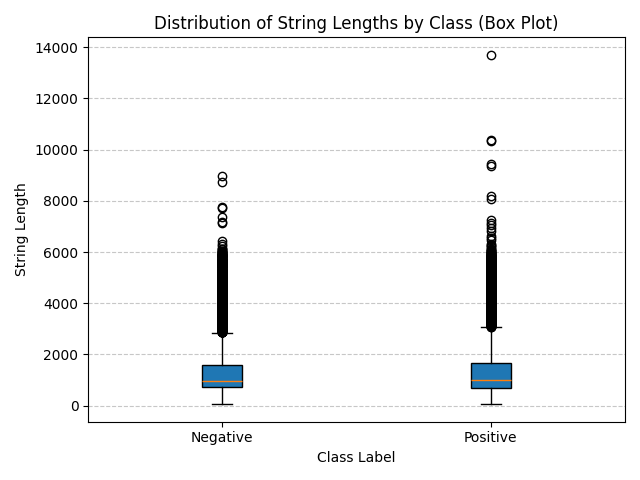
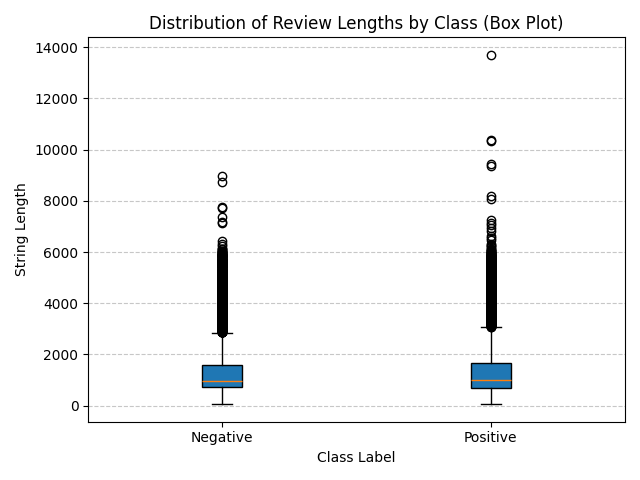
:sparkles: Add histogram plot for data vis

Changed region(s): [[0.2188, 0.0312, 0.875, 0.0625]]

diff --git a/jamoy/data-vis.py b/jamoy/data-vis.py
@@ -3,27 +3,12 @@
 # Used to import and visualize the dataset.
 from datasets import load_dataset
 import matplotlib.pyplot as plt
+import numpy as np
 import os
+import colorama
 
-def plot_box_plot(plot_data, display_labels, filename='box_plot.png'):
-    plt.boxplot(plot_data, labels=display_labels, patch_artist=True)
-
-    plt.title('Distribution of String Lengths by Class (Box Plot)')
-    plt.xlabel('Class Label')
-    plt.ylabel('String Length')
-    plt.grid(axis='y', linestyle='--', alpha=0.7)
-    plt.tight_layout()
-
-    os.makedirs('plots', exist_ok=True)
-    plt.savefig(f'./plots/{filename}')
-
-
-if __name__ == '__main__':
-    print('Loading dataset.. (this may take a while)')
-    train_dataset = load_dataset("stanfordnlp/imdb", split='train')
-    print(f'Loaded {len(train_dataset)} datapoints!')
-
-    # Plot length of string against class
+def plot_box_plot(train_dataset, filename='box_plot.png'):
+    """Plots a boxplot of the length of the texts against its assigned class."""
     texts = [example['text'] for example in train_dataset]
     labels = [example['label'] for example in train_dataset]
 
@@ -38,4 +23,67 @@ if __name__ == '__main__':
     
     plot_data = [lengths_by_class[label] for label in unique_labels]
 
-    plot_box_plot(plot_data, display_labels)
+    plt.boxplot(plot_data, tick_labels=display_labels, patch_artist=True)
+
+    plt.title('Distribution of Review Lengths by Class (Box Plot)')
+    plt.xlabel('Class Label')
+    plt.ylabel('String Length')
+    plt.grid(axis='y', linestyle='--', alpha=0.7)
+    plt.tight_layout()
+
+    os.makedirs('plots', exist_ok=True)
+    plt.savefig(f'./plots/{filename}')
+
+
+def plot_histogram(train_dataset, filename='histogram.png'):
+    """Plots a histogram of the length of the texts against its assigned class."""
+    texts = [example['text'] for example in train_dataset]
+    labels = [example['label'] for example in train_dataset]
+
+    string_lengths = [len(text) for text in texts]
+
+    lengths_by_class = {0: [], 1: []}
+    unique_labels = [0, 1]
+    display_labels = ['Negative', 'Positive']
+
+    for i, label in enumerate(labels):
+        lengths_by_class[label].append(string_lengths[i])
+    
+    min_len = min(string_lengths)
+    max_len = max(string_lengths)
+    bin_width = 350
+    bins = np.arange(min_len, max_len + bin_width, bin_width)
+
+    fig, axes = plt.subplots(1, 2, sharex=True, sharey=True)
+
+    axes[0].hist(lengths_by_class[0], bins=bins, edgecolor='black', color='orange')
+    axes[0].set_title(f'{display_labels[0]} Class')
+    axes[0].set_xlabel('String Length')
+    axes[0].set_ylabel('Frequency')
+    axes[0].grid(axis='y', linestyle='--')
+
+    axes[1].hist(lengths_by_class[1], bins=bins, edgecolor='black', color='dodgerblue')
+    axes[1].set_title(f'{display_labels[1]} Class')
+    axes[1].set_xlabel('String Length')
+    axes[1].set_ylabel('Frequency')
+    axes[1].grid(axis='y', linestyle='--')
+
+    fig.suptitle('Distribution of Review Lengths by Class', fontsize=16)
+
+    os.makedirs('plots', exist_ok=True)
+    plt.savefig(f'./plots/{filename}')
+
+
+
+if __name__ == '__main__':
+    print('Loading dataset... (this may take a while)')
+    train_dataset = load_dataset("stanfordnlp/imdb", split='train')
+    print(f'{colorama.Fore.GREEN}Loaded {len(train_dataset)} datapoints!{colorama.Style.RESET_ALL}')
+
+    print('Plotting box plot... ', end='')
+    plot_box_plot(train_dataset)
+    print(f'{colorama.Fore.GREEN}Finished!{colorama.Style.RESET_ALL}')
+
+    print('Plotting histogram... ', end='')
+    plot_histogram(train_dataset)
+    print(f'{colorama.Fore.GREEN}Finished!{colorama.Style.RESET_ALL}')
